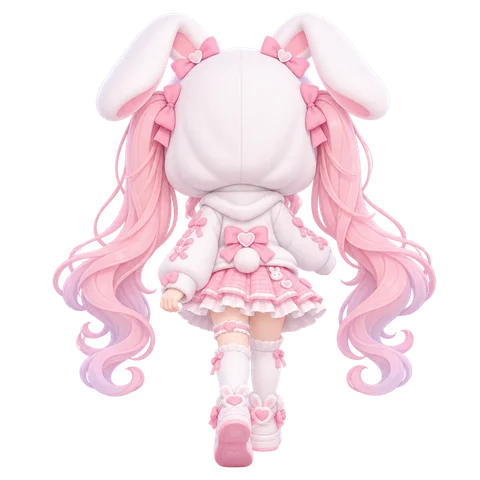
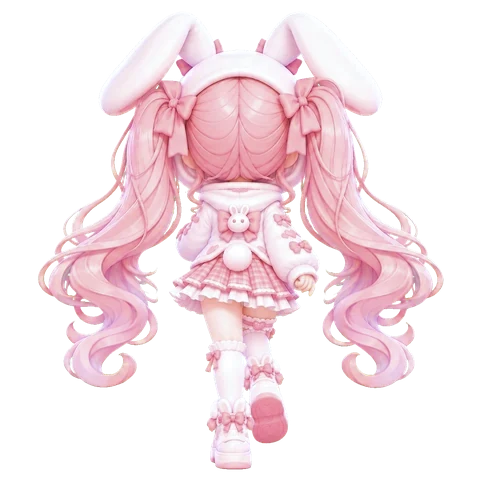
mascot: G1 regenerated from single reference + turnaround; spin works in video mode

Changed region(s): [[0.0625, 0.0312, 0.9375, 1.0], [0.2812, 0.0625, 0.3125, 0.0938]]

diff --git a/packages/overlay/public/mascot.html b/packages/overlay/public/mascot.html
@@ -21,6 +21,7 @@
   #char.turning img { transition:none; } /* หมุนตัว: สลับเฟรมทันที ไม่จาง */
   #char.video img:not(.vid) { display:none; }
   #char img.vid { opacity:1; transition:none; }
+  #char:not(.video) img.vid { display:none; } /* หมุนรอบตัวในโหมดวิดีโอ: ซ่อนคลิปชั่วคราว */
   /* ท่าทางทั้งตัวต้องเหมือนคนจริง: ไม่เอียง/โยก/หมุน/บีบยืดทั้งรูป — มีแค่หายใจเบา ๆ กับขยับขึ้นลงตามจังหวะ */
   #char.video { animation:none; } /* โหมดวิดีโอ: คลิปขยับเองอยู่แล้ว */
   #char.hop { animation:hop .5s ease-out, breath 3.4s ease-in-out .5s infinite; }
@@ -240,10 +241,12 @@
     }
     // หมุนตัวแบบคน: หันหลัง (ท่ามองจากด้านหลัง) แล้วหันกลับมาดีใจ — ไม่พลิกรูปแบน ๆ
     async function spin() {
-      if (TURN === 7 && !VIDEO.on) { // หมุนรอบตัวจริง 8 เฟรม
+      if (TURN === 7) { // หมุนรอบตัวจริง 8 เฟรม (โหมดวิดีโอ: ซ่อนคลิปชั่วคราวแล้วใช้รูป)
+        const vid = VIDEO.on; if (vid) { clearTimeout(VIDEO.t); $char.classList.remove('video'); }
         $char.classList.add('turning');
         for (const n of [18, 19, 20, 21, 22, 23, 24, 1]) { pose(n); await wait(125); } // ~1 วิ/รอบ เหมือนคนหมุนจริง
         $char.classList.remove('turning');
+        if (vid) { $char.classList.add('video'); playClip('joy'); particles(['✨', '⭐', '💫'], 8, 1.6); await wait(1200); return; }
         pose(7); hop(); particles(['✨', '⭐', '💫'], 8, 1.6); if (SPARK !== 'off') twinkle(12, 1); await wait(700); return;
       }
       pose(16); await wait(480); pose(7); hop(); particles(['✨', '⭐', '💫'], 8, 1.6); if (SPARK !== 'off') twinkle(12, 1); await wait(700); }
@@ -259,7 +262,7 @@
       async () => { pose(7); hop(); particles(['✨', '⭐'], 4, 1.4); await wait(900); },                        // ดีใจเบา ๆ
     ];
     (function idleAct() {
-      setTimeout(async () => { if (!busy && !running) { busy = true; try { if (VIDEO.on) { if (Math.random() < 0.3 && VIDEO.clips.dance) await clip('dance', 3600); } else await IDLE[Math.floor(Math.random() * IDLE.length)](); } catch (e) { /* ignore */ } pose(1); busy = false; } idleAct(); }, 6000 + Math.random() * 6000);
+      setTimeout(async () => { if (!busy && !running) { busy = true; try { if (VIDEO.on) { const r = Math.random(); if (r < 0.15 && TURN === 7) await spin(); else if (r < 0.4 && VIDEO.clips.dance) await clip('dance', 3600); } else await IDLE[Math.floor(Math.random() * IDLE.length)](); } catch (e) { /* ignore */ } pose(1); busy = false; } idleAct(); }, 6000 + Math.random() * 6000);
     })();
 
     // ---- คิวท่าทาง (ทีละอย่าง ไม่ทับกัน) ----
